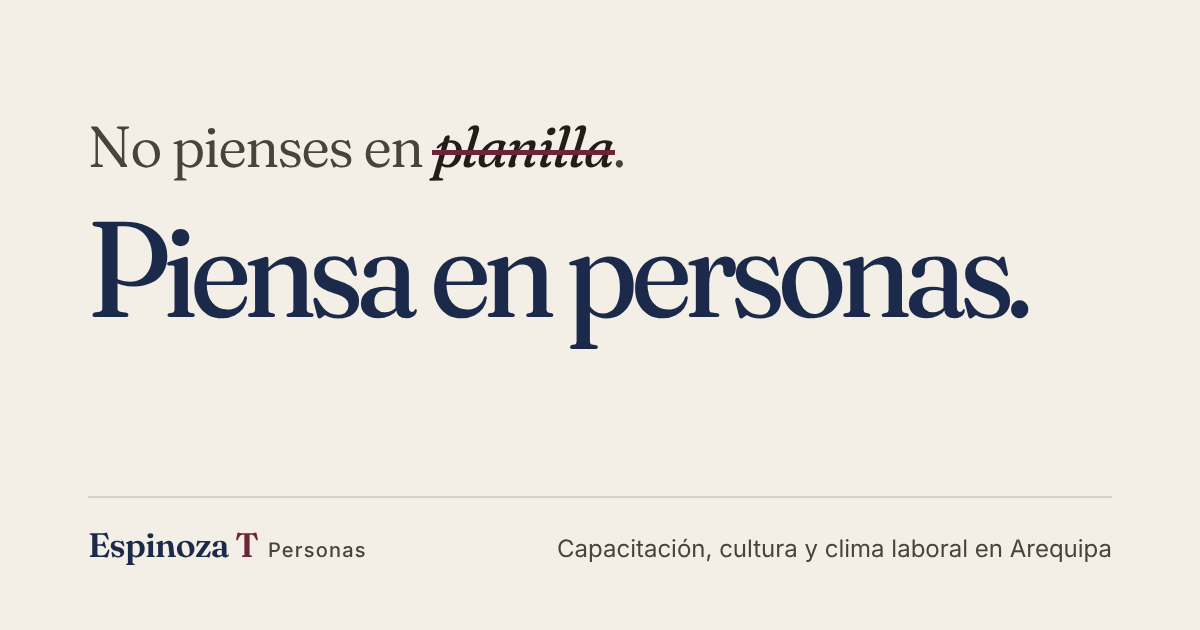
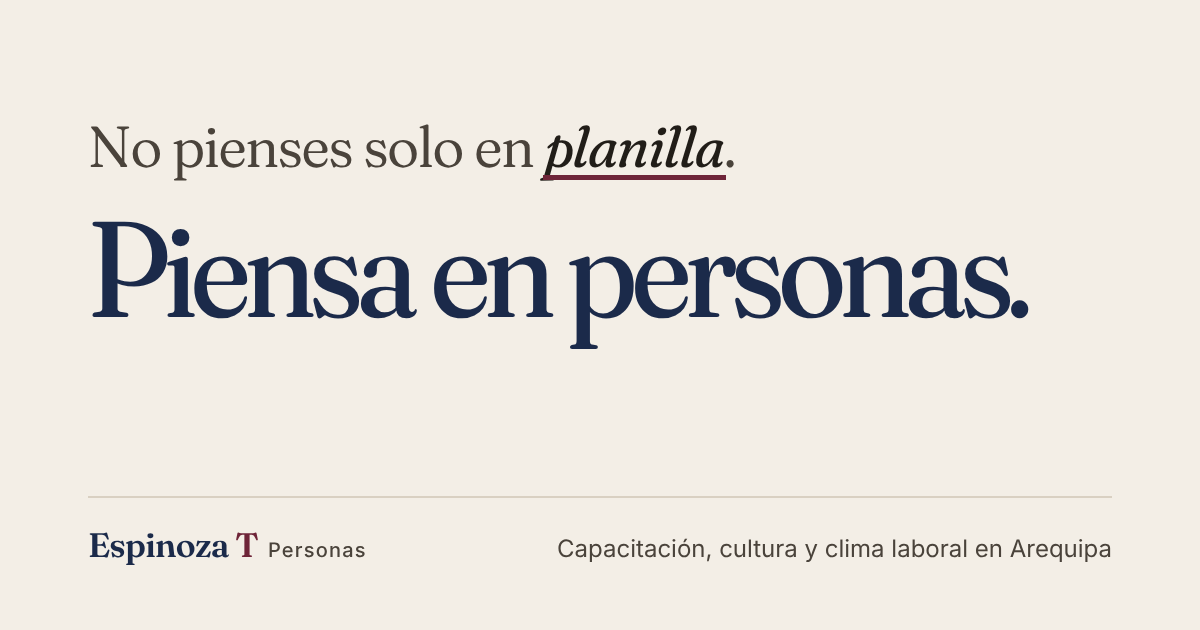
Ajustes

Changed region(s): [[0.3083, 0.181, 0.6167, 0.3016]]

diff --git a/index.html b/index.html
@@ -96,7 +96,7 @@ p{margin:0}
 .struck{font-variation-settings:"SOFT" 50,"WONK" 0;position:relative;display:inline-block;color:var(--ink);font-style:italic;font-weight:400;white-space:nowrap}
 .struck .w{display:inline-block;transition:opacity .35s ease, transform .35s ease}
 .struck .w.out{opacity:0;transform:translateY(.25em)}
-.struck::after{content:"";position:absolute;left:-.04em;right:-.04em;top:56%;height:.085em;background:var(--wine);transform:scaleX(var(--strike,1));transform-origin:left center;transition:transform .45s cubic-bezier(.7,0,.2,1)}
+.struck::after{content:"";position:absolute;left:0;right:0;bottom:-.02em;height:.07em;background:var(--wine);transform:scaleX(var(--strike,1));transform-origin:left center;transition:transform .45s cubic-bezier(.7,0,.2,1)}
 .claim-yes{display:block}
 .hero-lede{max-width:34rem;margin-top:clamp(1.75rem,3.5vw,2.75rem);font-size:clamp(1.1rem,1.6vw,1.3rem);line-height:1.55;color:var(--ink-soft)}
 .hero-actions{display:flex;flex-wrap:wrap;align-items:center;gap:1rem 1.75rem;margin-top:2rem}
@@ -124,12 +124,33 @@ p{margin:0}
 
 /* ---------- doors ---------- */
 .doors{border-top:1px solid var(--rule)}
-.door{display:grid;grid-template-columns:minmax(0,5fr) minmax(0,6fr) 10.5rem;gap:1.5rem 3rem;align-items:start;padding:clamp(1.75rem,3.5vw,2.5rem) 0;border-bottom:1px solid var(--rule)}
+.door{display:grid;grid-template-columns:minmax(0,4fr) minmax(0,5fr) minmax(0,3fr);gap:1.5rem clamp(1.5rem,4vw,3rem);align-items:start;padding:clamp(2rem,4vw,3rem) 0;border-bottom:1px solid var(--rule)}
 .door h3{font-size:clamp(1.5rem,2.6vw,2.1rem);color:var(--navy)}
-.door .when{display:block;margin-top:.6rem;font-size:.92rem;font-weight:600;color:var(--wine)}
-.door p{color:var(--ink-soft);max-width:36rem}
-.door .ask{white-space:nowrap;align-self:center;justify-self:end}
-@media (max-width:860px){.door{grid-template-columns:1fr}.door .ask{align-self:start;justify-self:start}}
+.door .when{margin-top:.75rem;font-size:.95rem;font-weight:600;color:var(--wine);max-width:22rem}
+.door-body > p{color:var(--ink-soft);max-width:36rem}
+.incl-title{margin-top:1.25rem !important;font-weight:600;color:var(--ink);font-size:.98rem}
+.incl{margin:.5rem 0 0;padding:0;list-style:none}
+.incl li{position:relative;padding:.3rem 0 .3rem 1.25rem;color:var(--ink-soft);font-size:.98rem}
+.incl li::before{content:"";position:absolute;left:0;top:.95rem;width:.5rem;height:2px;background:var(--wine)}
+.formats{margin:.6rem 0 0;padding:0;list-style:none;border-top:1px solid var(--rule)}
+.formats li{display:grid;grid-template-columns:8rem minmax(0,1fr);gap:1rem;padding:.75rem 0;border-bottom:1px solid var(--rule);font-size:.97rem}
+.formats b{font-weight:600;color:var(--navy)}
+.formats span{color:var(--ink-soft)}
+.specs dl{margin:0;display:grid;gap:1rem}
+.specs{display:grid;gap:1rem;padding:1.25rem 1.25rem 1.4rem;background:var(--paper);border-radius:1rem}
+.specs div{display:grid;gap:.1rem}
+.specs dt{font-size:.85rem;color:var(--ink-soft)}
+.specs dd{margin:0;font-weight:600;color:var(--navy);font-size:.98rem;line-height:1.4}
+.specs .btn{margin-top:.35rem;justify-self:start}
+@media (max-width:960px){.door{grid-template-columns:minmax(0,1fr) minmax(0,1fr)}.door-head{grid-column:1 / -1}}
+@media (max-width:640px){.door{grid-template-columns:1fr}.formats li{grid-template-columns:1fr;gap:.15rem}}
+.extras{margin-top:clamp(2rem,4vw,2.75rem)}
+.extras-title{font-family:var(--serif);font-size:1.35rem;color:var(--navy);margin-bottom:.75rem}
+.extras ul{margin:0;padding:0;list-style:none;display:grid;grid-template-columns:repeat(3,minmax(0,1fr));gap:1.5rem clamp(1.5rem,4vw,3rem)}
+.extras li{padding-top:.9rem;border-top:2px solid var(--navy)}
+.extras b{display:block;font-weight:600;color:var(--navy);margin-bottom:.3rem}
+.extras span{color:var(--ink-soft);font-size:.97rem}
+@media (max-width:860px){.extras ul{grid-template-columns:1fr}}
 .combo{margin-top:clamp(2rem,4vw,3rem);display:flex;flex-wrap:wrap;gap:1rem 2rem;align-items:center;justify-content:space-between;background:var(--navy);color:#EDE7DC;border-radius:1.25rem;padding:clamp(1.5rem,3.5vw,2.25rem) clamp(1.5rem,4vw,2.75rem)}
 .combo p{max-width:40rem;font-size:1.08rem}
 .combo strong{display:block;font-family:var(--serif);font-weight:500;color:#fff;font-size:clamp(1.3rem,2.4vw,1.7rem);line-height:1.2;margin-bottom:.35rem}
@@ -285,7 +306,7 @@ footer .brand-mark span{color:var(--rose)}
 <section class="hero" aria-labelledby="claim">
   <div class="wrap">
     <h1 id="claim">
-      <span class="claim-no" aria-hidden="true">No pienses en <span class="struck"><span class="w">planilla</span></span>.</span>
+      <span class="claim-no" aria-hidden="true">No pienses solo en <span class="struck"><span class="w">planilla</span></span>.</span>
       <span class="claim-yes">Piensa en personas.</span>
     </h1>
     <p class="hero-lede">Capacitación, desarrollo, cultura y clima laboral para empresas de Arequipa que quieren crecer sin desgastar a su gente.</p>
@@ -333,34 +354,89 @@ footer .brand-mark span{color:var(--rose)}
   <div class="wrap">
     <div class="head">
       <h2 id="puertas">Para empezar, algo concreto.</h2>
-      <p>No hace falta un programa de seis meses para conocernos. Estas tres entradas resuelven un problema puntual y dejan a tu equipo mejor de lo que lo encontramos.</p>
+      <p>No hace falta un programa de seis meses para conocernos. Cada una de estas entradas resuelve un problema puntual, tiene duración y entregables claros, y deja a tu equipo mejor de lo que lo encontramos.</p>
     </div>
     <div class="doors">
       <article class="door">
-        <div>
+        <header class="door-head">
           <h3>Capacitación en prevención del hostigamiento sexual laboral</h3>
-          <span class="when">Obligatoria cada año. El plan 2026 cierra el 31 de diciembre</span>
+          <p class="when">Obligatoria cada año. El plan 2026 cierra el 31 de diciembre.</p>
+        </header>
+        <div class="door-body">
+          <p>La Ley 27942 y su reglamento obligan a toda empresa, sin importar su tamaño, a capacitar a su personal una vez al año. SUNAFIL fiscaliza, y lo que no está documentado, para SUNAFIL no pasó.</p>
+          <p class="incl-title">Qué incluye</p>
+          <ul class="incl">
+            <li>Qué es hostigamiento, cómo se reconoce y cómo se previene</li>
+            <li>El canal de denuncia y qué debe hacer la empresa cuando llega un caso</li>
+            <li>Casos prácticos adaptados a tu rubro</li>
+          </ul>
         </div>
-        <p>La Ley 27942 y su reglamento obligan a toda empresa, sin importar su tamaño, a capacitar a su personal una vez al año. La dictamos en tu local y te dejamos registro de asistencia y constancias, que es lo que SUNAFIL pide ver.</p>
-        <a class="textlink ask" data-wa="Hola Daniel, quiero cerrar la capacitación anual de hostigamiento sexual laboral de mi empresa." href="https://wa.me/51974770954">Consultar fechas</a>
+        <div class="specs"><dl>
+          <div><dt>Duración</dt><dd>2 horas</dd></div>
+          <div><dt>Grupo</dt><dd>Hasta 25 personas</dd></div>
+          <div><dt>Te llevas</dt><dd>Registro de asistencia firmado y constancia por participante</dd></div>
+          </dl>
+          <a class="btn btn-wine btn-small" data-wa="Hola Daniel, quiero cerrar la capacitación anual de hostigamiento sexual laboral de mi empresa." href="https://wa.me/51974770954">Consultar fechas</a>
+        </div>
       </article>
+
       <article class="door">
-        <div>
+        <header class="door-head">
           <h3>Integración de fin de año</h3>
-          <span class="when">Noviembre y diciembre, con cupos limitados por semana</span>
+          <p class="when">Noviembre y diciembre, con cupos limitados por semana.</p>
+        </header>
+        <div class="door-body">
+          <p>Dinámicas de cohesión conducidas con método, no un juego para pasar la tarde. Cada formato termina con una reflexión del equipo y compromisos concretos para 2027.</p>
+          <p class="incl-title">Elige el formato</p>
+          <ul class="formats">
+            <li><b>Express</b><span>2 horas, hasta 25 personas. Un desafío de presentación y una construcción en equipo.</span></li>
+            <li><b>Media jornada</b><span>4 horas, hasta 40 personas. Cuatro dinámicas de cohesión y cierre con compromisos.</span></li>
+            <li><b>Cierre de año</b><span>6 horas, hasta 50 personas. Todo lo anterior más un mapa de cómo se sintió el equipo este año.</span></li>
+          </ul>
         </div>
-        <p>Dinámicas de cohesión de dos a seis horas, conducidas con método y con una reflexión final que termina en compromisos del equipo para 2027. Para grupos de hasta 50 personas.</p>
-        <a class="textlink ask" data-wa="Hola Daniel, me interesa una integración de fin de año para mi equipo." href="https://wa.me/51974770954">Reservar una fecha</a>
+        <div class="specs"><dl>
+          <div><dt>Dónde</dt><dd>En tu local o en el lugar que elijas</dd></div>
+          <div><dt>Te llevas</dt><dd>Encuesta de satisfacción, certificado y compromisos del equipo por escrito</dd></div>
+          </dl>
+          <a class="btn btn-wine btn-small" data-wa="Hola Daniel, me interesa una integración de fin de año para mi equipo." href="https://wa.me/51974770954">Reservar una fecha</a>
+        </div>
       </article>
+
       <article class="door">
-        <div>
+        <header class="door-head">
           <h3>Taller de tres horas</h3>
-          <span class="when">Para equipos de hasta 20 personas</span>
+          <p class="when">Un solo problema, bien trabajado.</p>
+        </header>
+        <div class="door-body">
+          <p>Para empresas que quieren resolver algo puntual sin comprometerse a un programa largo. Se trabaja con situaciones reales de tu operación, no con ejemplos de libro.</p>
+          <p class="incl-title">Temas más pedidos</p>
+          <ul class="incl">
+            <li>Supervisores que corrigen sin gritar</li>
+            <li>Conflictos entre áreas o entre turnos</li>
+            <li>Comunicación efectiva entre jefes y equipo</li>
+            <li>Trato al cliente y servicio</li>
+            <li>Inducción del personal nuevo</li>
+          </ul>
         </div>
-        <p>Un solo dolor, bien trabajado: supervisores que no saben corregir sin gritar, conflictos entre áreas, comunicación, trato al cliente o inducción del personal nuevo.</p>
-        <a class="textlink ask" data-wa="Hola Daniel, quiero un taller de tres horas para mi equipo." href="https://wa.me/51974770954">Elegir un tema</a>
+        <div class="specs"><dl>
+          <div><dt>Duración</dt><dd>3 horas</dd></div>
+          <div><dt>Grupo</dt><dd>Hasta 20 personas</dd></div>
+          <div><dt>Te llevas</dt><dd>Material de trabajo para cada participante y evaluación de cierre</dd></div>
+          </dl>
+          <a class="btn btn-wine btn-small" data-wa="Hola Daniel, quiero un taller de tres horas para mi equipo." href="https://wa.me/51974770954">Elegir un tema</a>
+        </div>
       </article>
     </div>
+
+    <div class="extras">
+      <p class="extras-title">Otras entradas rápidas</p>
+      <ul>
+        <li><b>Termómetro de clima exprés</b><span>Encuesta corta a tu equipo e informe de dos páginas con lo que encontramos.</span></li>
+        <li><b>Inducción exprés</b><span>Un formato de inducción listo para usar y una sesión de una hora para el personal nuevo o temporal.</span></li>
+        <li><b>Charla para gerencia</b><span>Una hora con gerencia o jefaturas sobre el tema que más les preocupe hoy.</span></li>
+      </ul>
+    </div>
+
     <div class="combo">
       <p><strong>Cierra 2026 en una sola visita.</strong>La capacitación obligatoria por la mañana y la integración del equipo por la tarde. Cumples con la ley y celebras el año el mismo día.</p>
       <a class="btn btn-light" data-wa="Hola Daniel, me interesa cerrar el año con la capacitación de hostigamiento y la integración en una sola visita." href="https://wa.me/51974770954">Pedir propuesta</a>
@@ -507,12 +583,12 @@ footer .brand-mark span{color:var(--rose)}
     <div class="about">
       <div>
         <p class="figure-num" aria-label="De 74 por ciento a 93 por ciento">74%<span class="arrow" aria-hidden="true">→</span>93%</p>
-        <p class="figure-cap">Satisfacción laboral en Danper, empresa agroindustrial de más de 15 000 colaboradores, tras dos años de intervenciones sostenidas.</p>
+        <p class="figure-cap">Satisfacción laboral que logró Daniel en las sedes de Arequipa y Chincha de Danper, con los programas que diseñó y condujo durante dos años.</p>
       </div>
       <div class="about-body">
         <h2 id="quien-title">Daniel Franco Espinoza Cuadra</h2>
         <p class="role">Gerente General</p>
-        <p>Más de cinco años gestionando personas desde dentro de empresas grandes, como parte del equipo. Capacitación de mandos medios, clima laboral, evaluación de desempeño, planes de sucesión e integración de equipos, en operaciones de 600 a más de 2 000 trabajadores.</p>
+        <p>Más de cinco años liderando la gestión de personas desde dentro de empresas grandes. Capacitación de mandos medios, clima laboral, evaluación de desempeño, planes de sucesión e integración de equipos, en operaciones de 600 a más de 2 000 trabajadores.</p>
         <p>Espinoza T Personas nace en Arequipa para llevar ese mismo rigor a empresas que no tienen un área de recursos humanos y que, igual, necesitan que su gente funcione.</p>
         <div class="track">
           <div><b>Industria y agroindustria</b><span>Danper, plantas de Arequipa y Chincha</span></div>
@@ -594,7 +670,7 @@ footer .brand-mark span{color:var(--rose)}
   window.addEventListener("scroll", onScroll, {passive:true}); onScroll();
 
   // Hero: cycle struck words
-  var words = ["planilla", "turnos", "rotación", "un jefe", "un taller", "clima laboral"];
+  var words = ["planilla", "turnos", "metas", "costos", "rotación", "productividad"];
   var struck = document.querySelector(".struck");
   var w = struck.querySelector(".w");
   if (!reduce) {
